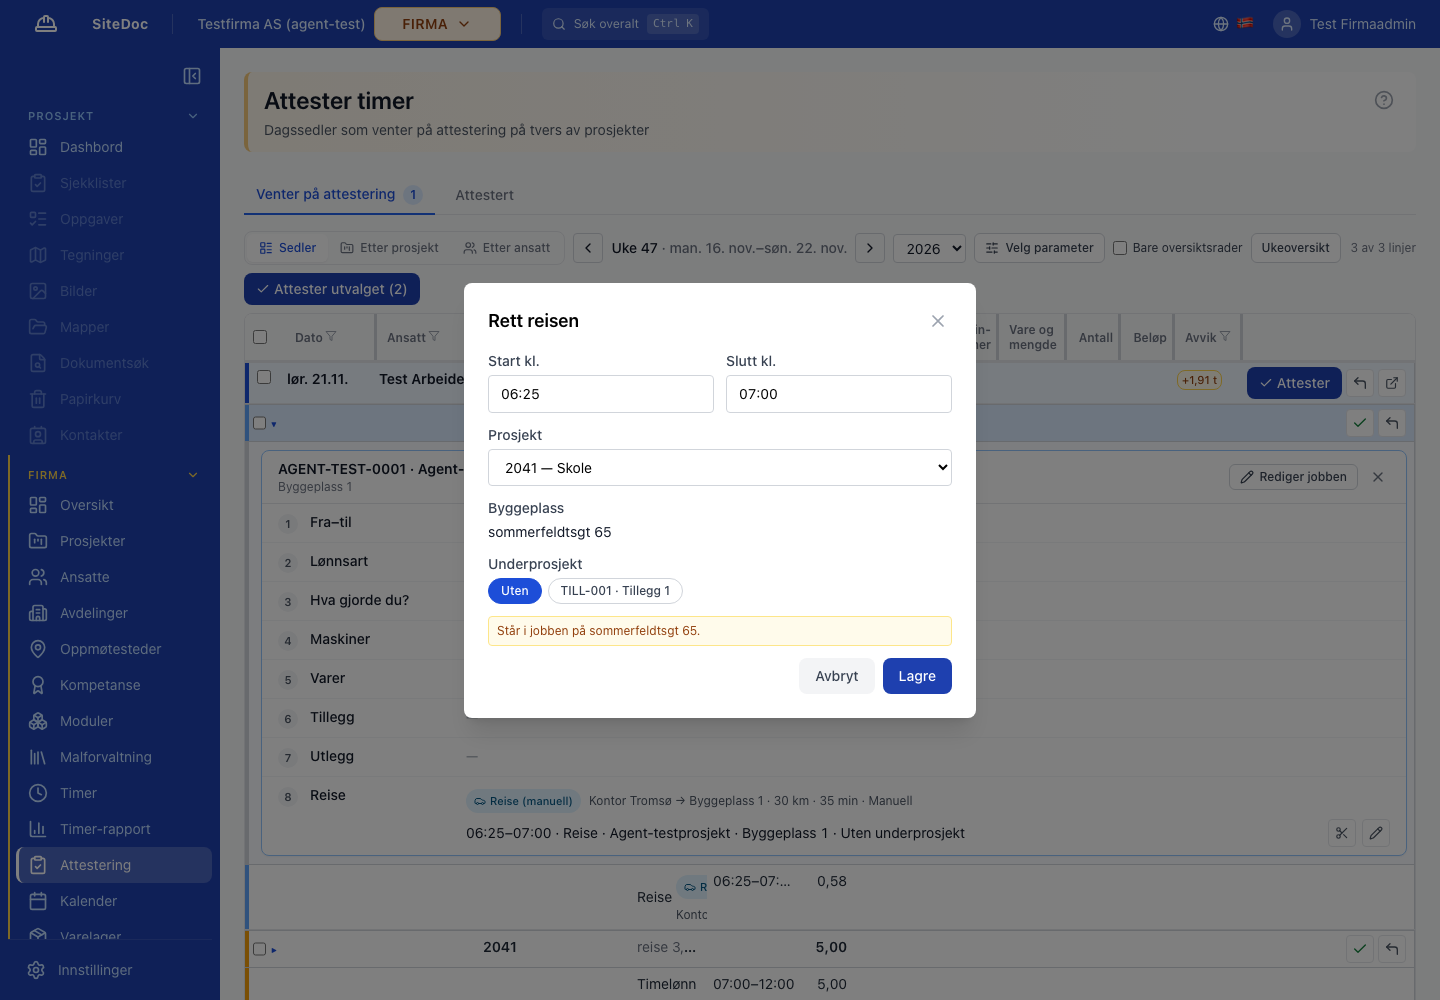
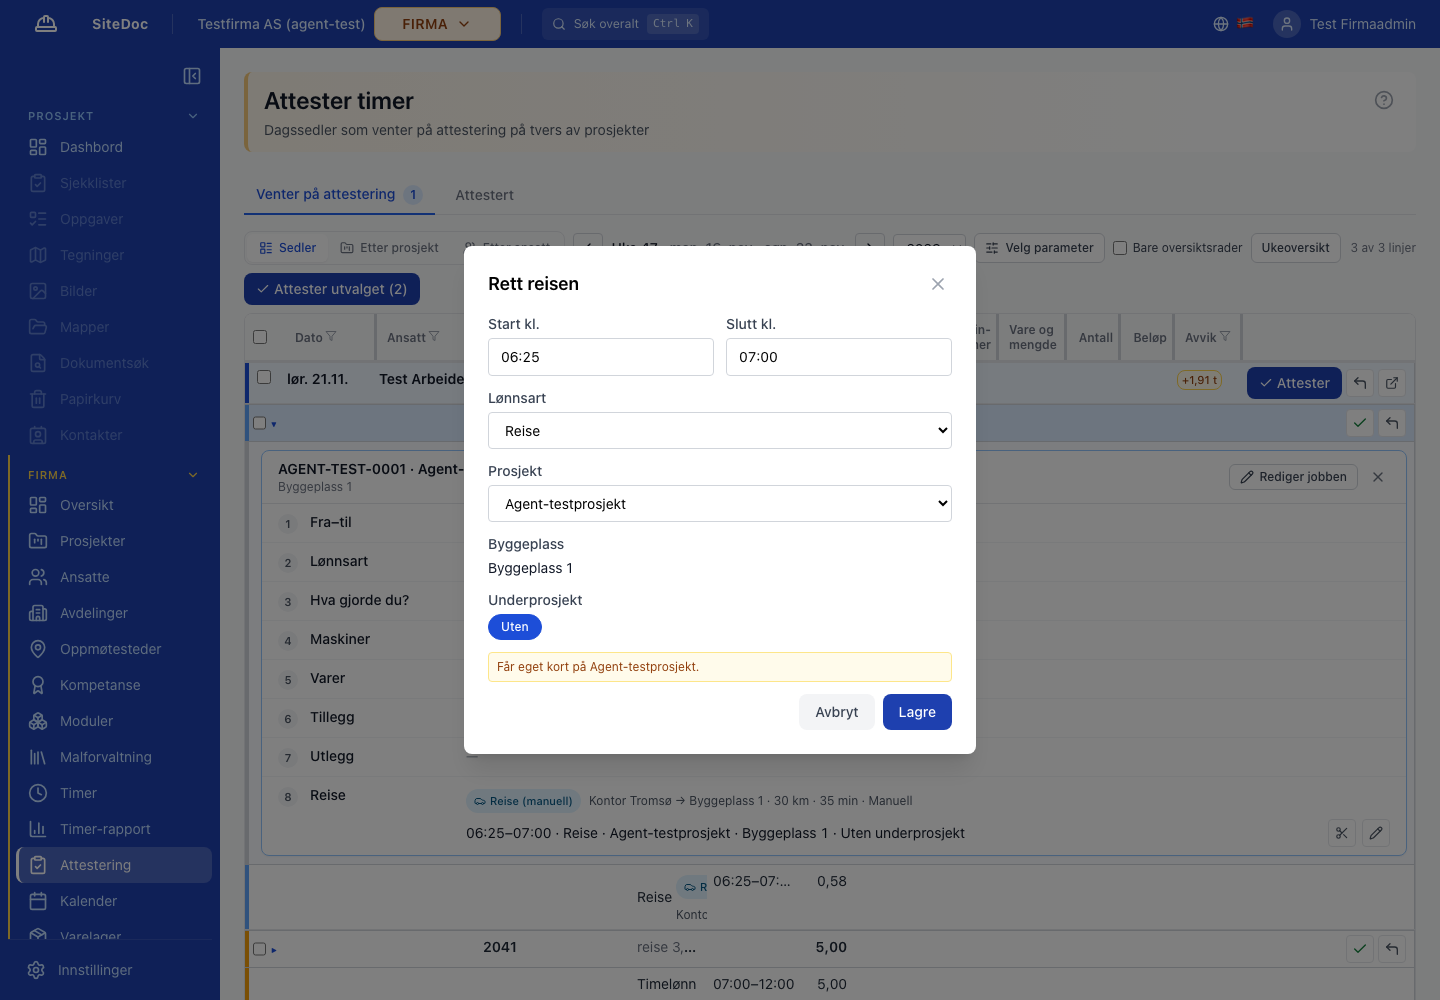
fix(web-timer): w15f RETUR — lønnsart i «Rett reisen», urørt tid rundes ikke
- «Rett reisen» har lønnsart (bare reisearter, firmaets reisekontekst), lagret
  med rettRadFelt og låst når firmavalget er av. «Rediger jobben» når ikke en
  reise uten underprosjekt i en jobb med underprosjekt (B48 A, gate 117).
- Start og slutt rundes bare når de er rørt; et rent underprosjektbytte sendes
  som flyttTimerRadEco, aldri som ny tid.
- Hjelpeteksten timer.attestering.tabell.hjelp.reise endret (nb/en), 13 språk
  regenerert fra ny kilde.
- Tester: 4 nye i attestering-tabell § w15f, røde mot b7df1911.
- Docs: timer.md, hjelpetekster.md, w15f-rett-reisen.png.

Changed region(s): [[0.3125, 0.248, 0.6875, 0.682], [0.3125, 0.651, 0.6875, 0.775]]

diff --git a/apps/web/src/components/attestering/ReiseRettVindu.tsx b/apps/web/src/components/attestering/ReiseRettVindu.tsx
@@ -9,7 +9,8 @@ import { rundTilNarmeste } from "@/lib/tidsrunding";
 import { byggeplasserForProsjekt, velgStandardByggeplass } from "@/lib/timerByggeplass";
 import { RadByggeplassFelt } from "@/components/timer/RadByggeplassFelt";
 import { reiseHavnerI, type ReiseHavnerAnnenRad } from "@/hooks/useManuellReiseWeb";
-import { UnderprosjektValg } from "./RegistreringPanel";
+import { UnderprosjektValg, tillatteLonnsarter } from "./RegistreringPanel";
+import type { ErReiseKontekst } from "@sitedoc/shared";
 import type { AttSedel, AttTimer } from "./attestering-tabell";
 
 type Eco = { id: string; proAdmId: string; kortNavn: string };
@@ -28,11 +29,12 @@ export type ReiseRettKall =
 /**
  * w15f: hva «Lagre» sender. Firmavalget av (`redigerTillatt` false): bare underprosjektet, med
  * `flyttTimerRadEco`. Endres bare underprosjektet: også `flyttTimerRadEco` (som før). Ellers ett
- * `rettRadFelt` med feltene som er endret; byttes prosjektet, sendes byggeplass og underprosjekt med.
+ * `rettRadFelt` med feltene som er endret (tid, prosjekt, byggeplass, lønnsart); byttes prosjektet,
+ * sendes byggeplass og underprosjekt med. `ny.fraTid`/`ny.tilTid` er allerede rundet der de er rørt.
  */
 export function reiseRettKall(args: {
-  lagret: { fraTid: string | null; tilTid: string | null; pauseMin: number; projectId: string | null; byggeplassId: string | null; ecoId: string | null };
-  ny: { fraTid: string; tilTid: string; projectId: string | null; byggeplassId: string | null; ecoId: string | null };
+  lagret: { fraTid: string | null; tilTid: string | null; pauseMin: number; projectId: string | null; byggeplassId: string | null; ecoId: string | null; lonnsartId: string };
+  ny: { fraTid: string; tilTid: string; projectId: string | null; byggeplassId: string | null; ecoId: string | null; lonnsartId: string };
   redigerTillatt: boolean;
 }): ReiseRettKall {
   const { lagret, ny, redigerTillatt } = args;
@@ -41,7 +43,8 @@ export function reiseRettKall(args: {
   const tidEndret = ny.fraTid !== (lagret.fraTid ?? "") || ny.tilTid !== (lagret.tilTid ?? "");
   const prosjektEndret = ny.projectId !== lagret.projectId;
   const byggeplassEndret = ny.byggeplassId !== lagret.byggeplassId;
-  if (!tidEndret && !prosjektEndret && !byggeplassEndret) {
+  const lonnsartEndret = ny.lonnsartId !== lagret.lonnsartId;
+  if (!tidEndret && !prosjektEndret && !byggeplassEndret && !lonnsartEndret) {
     return ecoEndret ? { type: "eco", externalCostObjectId: ny.ecoId } : { type: "ingen" };
   }
   const felter: Record<string, string | number | null> = {};
@@ -58,18 +61,21 @@ export function reiseRettKall(args: {
     if (byggeplassEndret) felter.byggeplassId = ny.byggeplassId;
     if (ecoEndret) felter.externalCostObjectId = ny.ecoId;
   }
+  if (lonnsartEndret) felter.lonnsartId = ny.lonnsartId;
   return { type: "rett", felter };
 }
 
 /**
- * w15f — «Rett reisen» i attesteringen (plan § 4.15 del E, bilde v17): fem felt — start, slutt,
- * prosjekt, byggeplass, underprosjekt — og linja «havner i» før lagring. Prosjektlista er
+ * w15f — «Rett reisen» i attesteringen (plan § 4.15 del E, bilde v17): start, slutt, lønnsart (bare
+ * reisearter, RETUR w15f B48 A), prosjekt, byggeplass, underprosjekt — og linja «havner i» før lagring. Prosjektlista er
  * prosjektene attestanten kan attestere (`prosjektKontekst`; `undefined` = alle i firmaet).
  * Firmavalget «Rediger ved attestering» av: bare underprosjektet er åpent. «Avbryt» sender ingenting;
  * etter lagring lukkes vinduet og tabellen hentes på nytt.
  */
-export function ReiseRettVindu({ rad, sedel, orgId, prosjektKontekst, tidsrunding = null, onLagret, onAvbryt }: {
+export function ReiseRettVindu({ rad, sedel, orgId, lonnsarter, reiseKtx, prosjektKontekst, tidsrunding = null, onLagret, onAvbryt }: {
   rad: AttTimer;
+  lonnsarter: readonly { id: string; navn: string }[];
+  reiseKtx: ErReiseKontekst | null;
   sedel: AttSedel;
   orgId: string;
   prosjektKontekst?: ReadonlySet<string>;
@@ -84,6 +90,8 @@ export function ReiseRettVindu({ rad, sedel, orgId, prosjektKontekst, tidsrundin
   const [projectId, setProjectId] = useState<string | null>(rad.projectId);
   const [byggeplassId, setByggeplassId] = useState<string | null>(rad.byggeplassId ?? null);
   const [ecoId, setEcoId] = useState<string | null>(rad.externalCostObjectId ?? null);
+  const [lonnsartId, setLonnsartId] = useState<string>(rad.lonnsartId);
+  const artValg = tillatteLonnsarter({ erReise: true }, lonnsarter, reiseKtx, rad.lonnsartId);
   const [feil, setFeil] = useState<string | null>(null);
 
   const { data: prosjekterRaw } = trpc.prosjekt.hentForTimer.useQuery({ organizationId: orgId });
@@ -157,12 +165,13 @@ export function ReiseRettVindu({ rad, sedel, orgId, prosjektKontekst, tidsrundin
 
   function lagre() {
     setFeil(null);
-    const f = rundTilNarmeste(fra, tidsrunding);
-    const ti = rundTilNarmeste(til, tidsrunding);
+    // Rund bare feltene som er rørt — urørt lagret tid sendes aldri som ny tid (RETUR w15f, merknad).
+    const f = fra !== (rad.fraTid ?? "") ? rundTilNarmeste(fra, tidsrunding) : fra;
+    const ti = til !== (rad.tilTid ?? "") ? rundTilNarmeste(til, tidsrunding) : til;
     if (redigerTillatt && (!KL.test(f) || !KL.test(ti) || ti <= f)) { setFeil(t("timer.attestering.registrering.ugyldigTid")); return; }
     const kall = reiseRettKall({
-      lagret: { fraTid: rad.fraTid, tilTid: rad.tilTid, pauseMin: rad.pauseMin ?? 0, projectId: rad.projectId, byggeplassId: rad.byggeplassId ?? null, ecoId: rad.externalCostObjectId ?? null },
-      ny: { fraTid: f, tilTid: ti, projectId, byggeplassId, ecoId },
+      lagret: { fraTid: rad.fraTid, tilTid: rad.tilTid, pauseMin: rad.pauseMin ?? 0, projectId: rad.projectId, byggeplassId: rad.byggeplassId ?? null, ecoId: rad.externalCostObjectId ?? null, lonnsartId: rad.lonnsartId },
+      ny: { fraTid: f, tilTid: ti, projectId, byggeplassId, ecoId, lonnsartId },
       redigerTillatt,
     });
     const ok = { onSuccess: (_d: unknown) => onLagret(), onError: (e: { message: string }) => setFeil(e.message) };
@@ -189,6 +198,12 @@ export function ReiseRettVindu({ rad, sedel, orgId, prosjektKontekst, tidsrundin
             <input aria-label={t("timer.attestering.reiseRett.slutt")} value={til} inputMode="numeric" placeholder="15:00" disabled={laast} onChange={(e) => setTil(e.target.value)} className={`${inp} tabular-nums`} />
           </label>
         </div>
+        <label className="block">
+          <span className="mb-1 block font-medium text-gray-700">{t("timer.attestering.registrering.lonnsart")}</span>
+          <select aria-label={t("timer.attestering.registrering.lonnsart")} value={lonnsartId} disabled={laast} onChange={(e) => setLonnsartId(e.target.value)} className={inp}>
+            {artValg.map((x) => <option key={x.id} value={x.id}>{x.navn}</option>)}
+          </select>
+        </label>
         <label className="block">
           <span className="mb-1 block font-medium text-gray-700">{t("timer.felt.prosjekt")}</span>
           <select aria-label={t("timer.felt.prosjekt")} value={projectId ?? ""} disabled={laast} onChange={(e) => byttProsjekt(e.target.value)} className={inp}>

diff --git a/apps/web/src/__tests__/attestering-tabell.test.tsx b/apps/web/src/__tests__/attestering-tabell.test.tsx
@@ -1348,4 +1348,45 @@ describe("w15f — reiselinja i del 8 og «Rett reisen»", () => {
     act(() => kallTil("rettRadFelt")[0]!.opts!.onSuccess!(undefined));
     expect(vindu()).toBeNull();
   });
+
+  // RETUR w15f (B48 A): reise uten underprosjekt i en jobb med underprosjekt — «Rediger jobben» tar
+  // bare rader med samme underprosjekt, så lønnsarten må kunne rettes i «Rett reisen».
+  it("RETUR w15f — lønnsarten (bare reisearter) rettes i vinduet når jobben har underprosjekt og reisen ikke", () => {
+    h.data["timer.lonnsart.list"] = [{ id: "l1", navn: "Ordinær", satsEnhet: null }, { id: "lr", navn: "Reise", satsEnhet: null }, { id: "lr2", navn: "Reise sone 2", satsEnhet: null }];
+    h.data["organisasjon.hentArbeidstidDefaults"] = { reiseLonnsartId: "lr", reiseGrenser: [{ lonnsartId: "lr2" }] };
+    const { container } = visMed([sedel({ timer: [timer("t1", { externalCostObjectId: "e1" }), reise({ externalCostObjectId: null })] })]);
+    fireEvent.click(penn(aapne(container))!);
+    const art = within(vindu()).getByLabelText("timer.attestering.registrering.lonnsart") as HTMLSelectElement;
+    expect(art.value).toBe("lr");
+    expect(Array.from(art.options).map((o) => o.value)).toEqual(["lr", "lr2"]);
+    fireEvent.change(art, { target: { value: "lr2" } });
+    lagre();
+    expect(kallTil("flyttTimerRadEco")).toHaveLength(0);
+    expect(kallTil("rettRadFelt").map((k) => k.input)).toEqual([{ radType: "timer", radId: "r1", felter: { lonnsartId: "lr2" } }]);
+  });
+
+  it("RETUR w15f — firmavalget av: lønnsarten er låst", () => {
+    const { container } = visMed([sedel({ redigerTillatt: false, timer: [timer("t1"), reise()] })]);
+    fireEvent.click(penn(aapne(container))!);
+    expect((within(vindu()).getByLabelText("timer.attestering.registrering.lonnsart") as HTMLSelectElement).disabled).toBe(true);
+  });
+
+  it("RETUR w15f (merknad) — urørt tid rundes ikke: et rent underprosjektbytte sender ingen ny tid", () => {
+    h.data["organisasjon.hentArbeidstidDefaults"] = { reiseLonnsartId: "lr", reiseGrenser: [], tidsrundingMinutter: 15 };
+    const { container } = visMed([sedel({ timer: [timer("t1"), reise({ externalCostObjectId: "e1" })] })]);
+    fireEvent.click(penn(aapne(container))!);
+    fireEvent.click(within(vindu()).getAllByRole("button").find((b) => b.textContent?.includes("Tak"))!);
+    lagre();
+    expect(kallTil("rettRadFelt")).toHaveLength(0);
+    expect(kallTil("flyttTimerRadEco").map((k) => k.input)).toEqual([{ timerRadId: "r1", radType: "timer", externalCostObjectId: "e2" }]);
+  });
+
+  it("RETUR w15f (merknad) — rørt tid rundes som før", () => {
+    h.data["organisasjon.hentArbeidstidDefaults"] = { reiseLonnsartId: "lr", reiseGrenser: [], tidsrundingMinutter: 15 };
+    const { container } = visMed([sedel({ timer: [timer("t1"), reise()] })]);
+    fireEvent.click(penn(aapne(container))!);
+    fireEvent.change(within(vindu()).getByLabelText("timer.attestering.reiseRett.slutt"), { target: { value: "07:20" } });
+    lagre();
+    expect(kallTil("rettRadFelt").map((k) => k.input)).toEqual([{ radType: "timer", radId: "r1", felter: { fraTid: "06:25", tilTid: "07:15", timer: expect.any(Number) } }]);
+  });
 });

diff --git a/apps/web/src/components/attestering/RegistreringPanel.tsx b/apps/web/src/components/attestering/RegistreringPanel.tsx
@@ -521,6 +521,8 @@ export function RegistreringPanel({ kort, sedel, orgId, kanAttestere, kanRette, 
           rad={reiseRett}
           sedel={sedel}
           orgId={orgId}
+          lonnsarter={lonnsarter}
+          reiseKtx={reiseKtx}
           prosjektKontekst={prosjektKontekst}
           tidsrunding={tidsrunding}
           onLagret={() => { setReiseRett(null); onEndret(); }}

diff --git a/docs/claude/hjelpetekster.md b/docs/claude/hjelpetekster.md
@@ -431,8 +431,8 @@ Fra w12 i web-timeføring (🟡 ikke merget, `feat/web-timer-w12`, plan § 4.11 
 Fra w15f i web-timeføring (🟡 ikke merget, `feat/web-timer-w15f`, plan § 4.15 del E):
 
 - Reiselinja i del 8 er tekst «fra–til · lønnsart · prosjekt · byggeplass · underprosjekt» med ✂ og ✎ («Rett reisen», `timer.attestering.reiseRett.tittel`). «Føres på» og de åpne feltene på reiselinja er tatt ut; `…registrering.foresPaa` står i språkfilene uten bruker.
-- Vinduet «Rett reisen»: «Start kl.» / «Slutt kl.» (`…reiseRett.start` / `…slutt`), Prosjekt, Byggeplass, Underprosjekt, og linja «Står i jobben på …» / «Står i kortet på …» / «Får eget kort på …» (`timer.reiseKort.havnerJobb` / `havnerKort` (ny) / `havnerEget`). Firmavalget av: «Firmaet tillater ikke at tid og sted rettes ved attestering. Underprosjektet kan rettes.» (`…reiseRett.bareUnderprosjekt`).
-- ?-fanen: nytt avsnitt `timer.attestering.tabell.hjelp.reise` (✎, lista, linja «havner i», firmavalget, lønnsarten i «Rediger jobben»).
+- Vinduet «Rett reisen»: «Start kl.» / «Slutt kl.» (`…reiseRett.start` / `…slutt`), Lønnsart (`…registrering.lonnsart`, bare reisearter, RETUR w15f), Prosjekt, Byggeplass, Underprosjekt, og linja «Står i jobben på …» / «Står i kortet på …» / «Får eget kort på …» (`timer.reiseKort.havnerJobb` / `havnerKort` (ny) / `havnerEget`). Firmavalget av: «Firmaet tillater ikke at tid og sted rettes ved attestering. Underprosjektet kan rettes.» (`…reiseRett.bareUnderprosjekt`).
+- ?-fanen: nytt avsnitt `timer.attestering.tabell.hjelp.reise` (✎, lønnsarten, lista, linja «havner i», firmavalget; endret i RETUR w15f: lønnsarten rettes i vinduet, ikke i «Rediger jobben» — 13 språk regenerert fra ny kilde).
 
 ## Prosjekt → Timer → Attestering (d2b-2) — ⚠ fjernet i w10b
 
